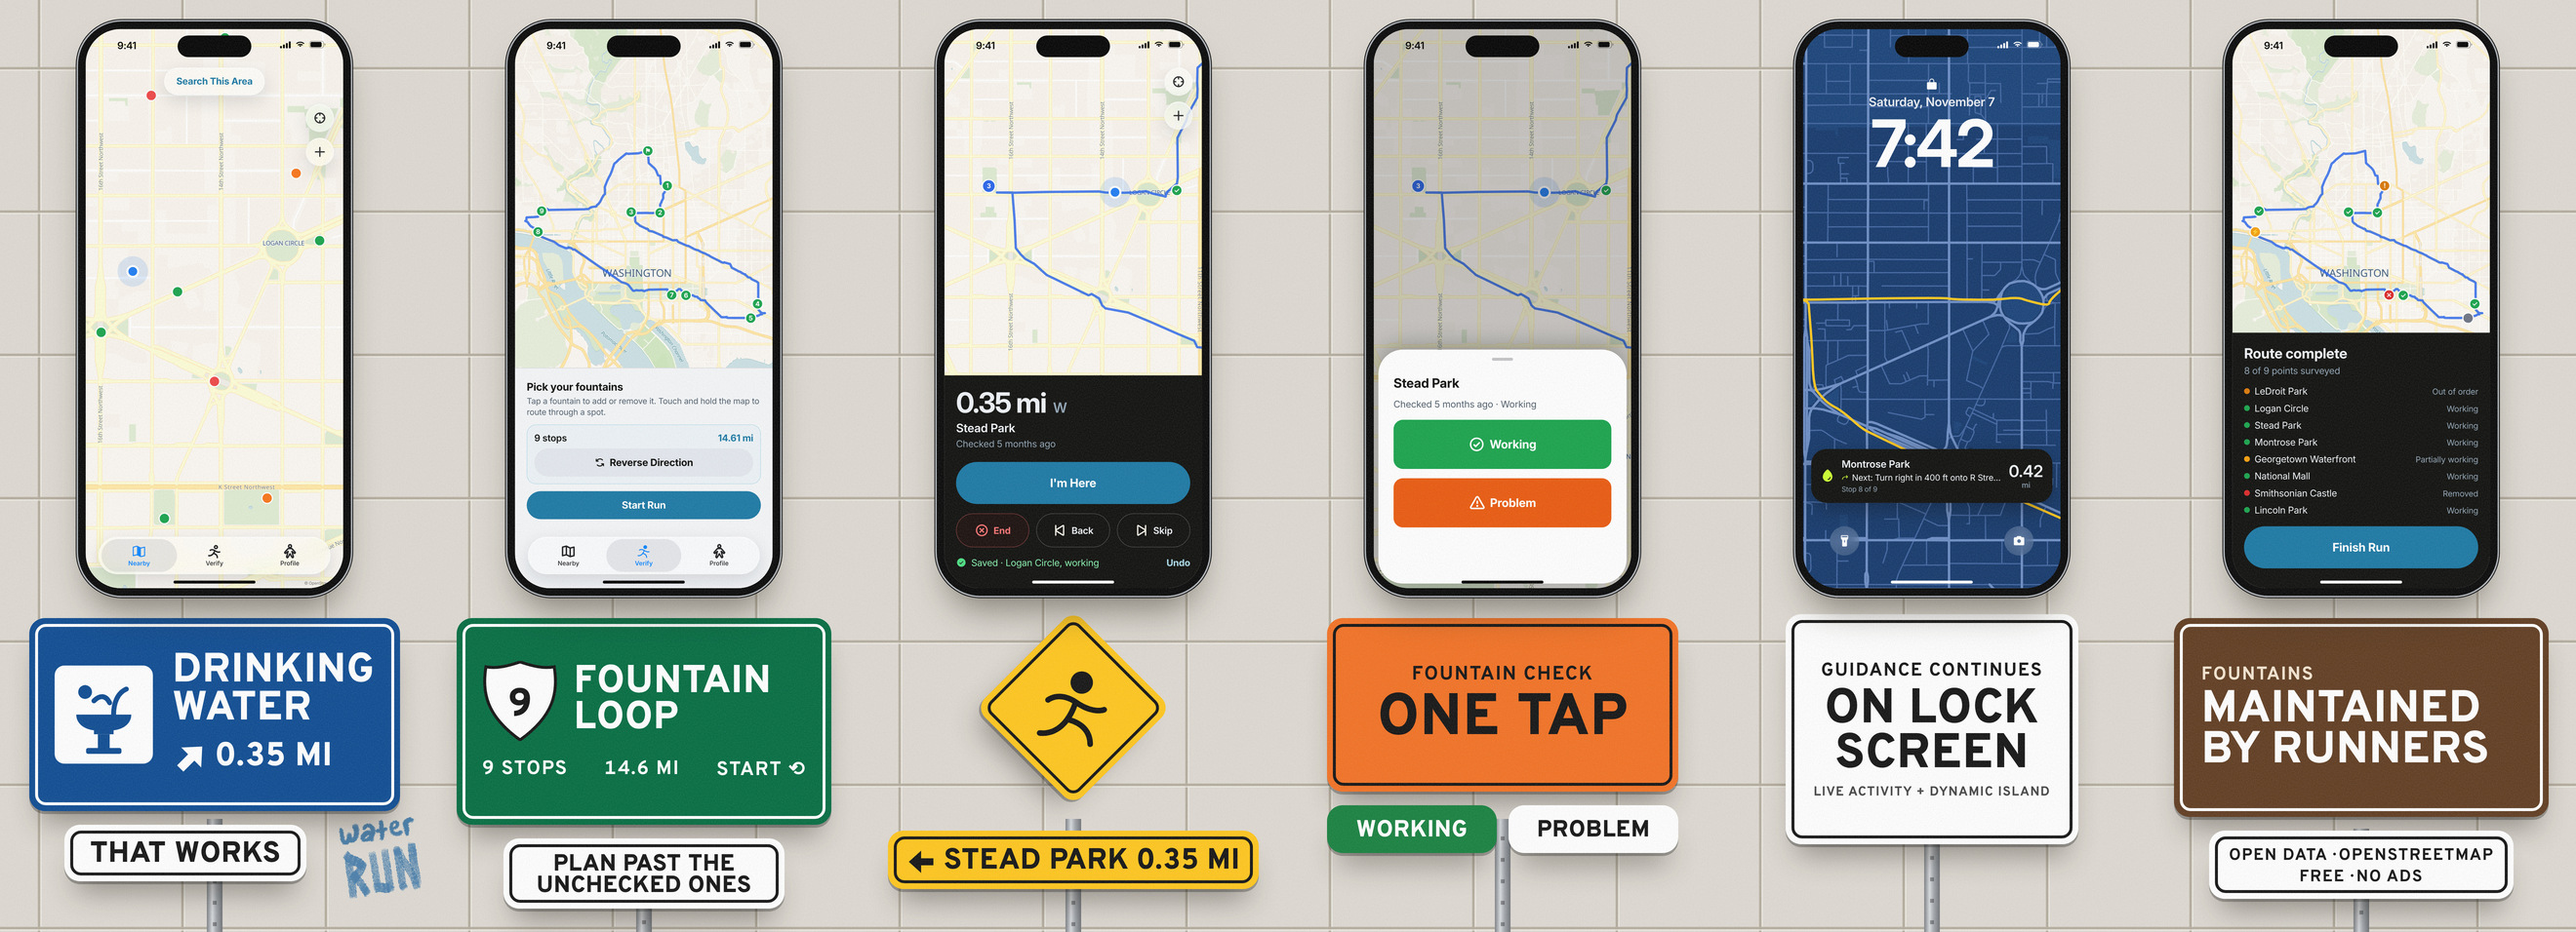
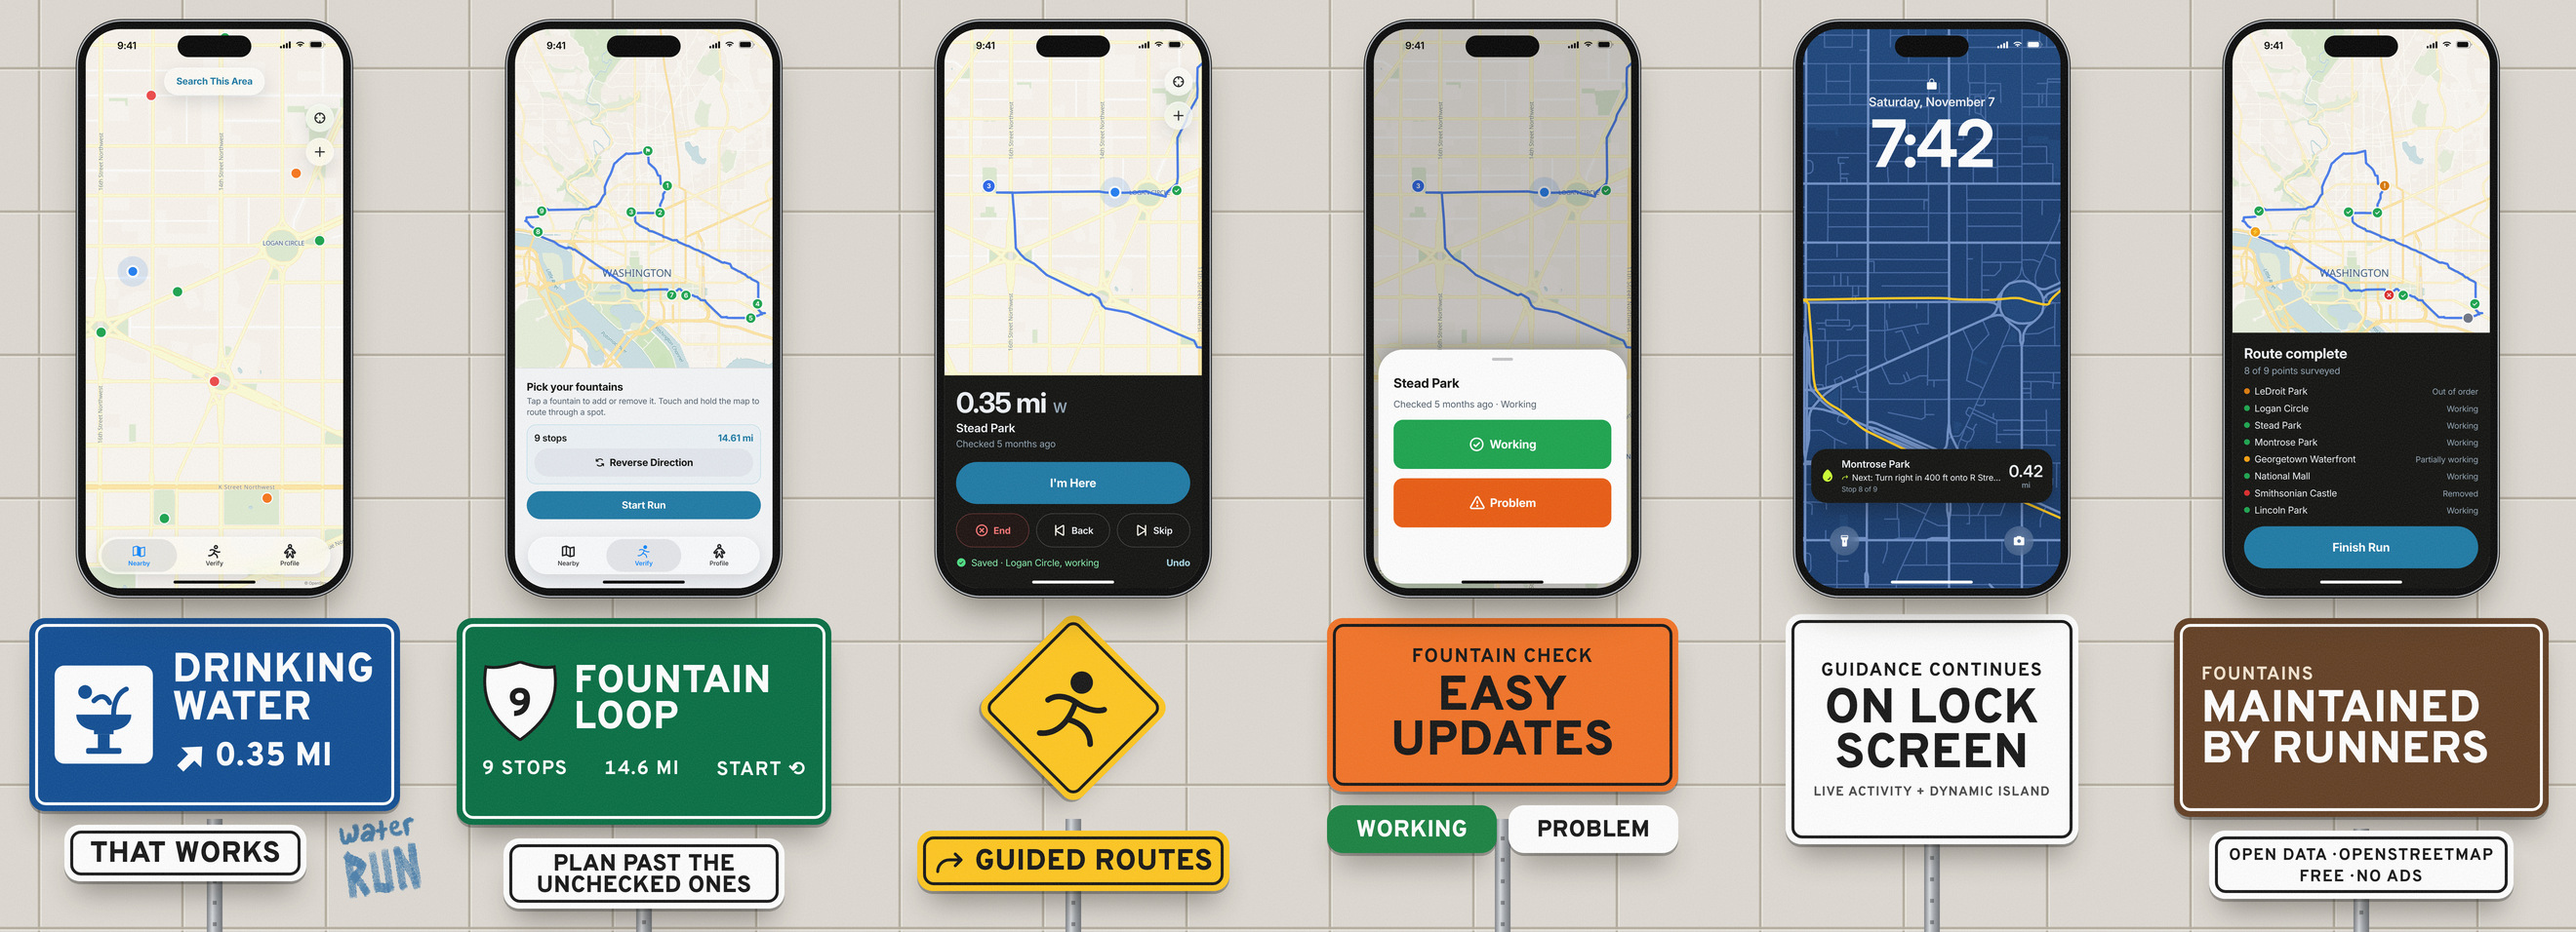
feat(marketing): reword Public Works' run and survey signs
The run frame's plaque says "Guided routes" with a turn arrow instead of
a single stop's distance, and the work-zone sign says "Easy updates".

Claude-Session: https://claude.ai/code/session_01A6NDPjtjuAxZPuc27tkg3H

Changed region(s): [[0.528, 0.6977, 0.6523, 0.819], [0.3417, 0.8797, 0.497, 0.9707]]

diff --git a/marketing/app-store/src/public-works.html b/marketing/app-store/src/public-works.html
@@ -195,14 +195,14 @@
      </div>
      <div style="position:absolute;inset:0;display:flex;align-items:center;justify-content:center">${S.icon("person-simple-run", 92, "#111", "fill")}</div>
    </div>
-   ${plaque(`<div class="legend tnum" style="font-size:30px;display:flex;align-items:center;justify-content:center;gap:8px">${arrow(-90, 30, "#111")} Stead Park 0.35 mi</div>`, "left:30px;top:262px;width:380px;padding:17px 0 13px;background:var(--warn)")}
+   ${plaque(`<div class="legend tnum" style="font-size:30px;display:flex;align-items:center;justify-content:center;gap:10px">${S.icon("arrow-bend-up-right", 32, "#111")} Guided routes</div>`, "left:60px;top:262px;width:320px;padding:17px 0 13px;background:var(--warn)")}
    ${phone(S.runScreen(d), 362)}`,
 
         // 4 — the work zone
         `${post(220, 250)}
    <div class="sign" style="left:40px;top:44px;width:360px;height:178px;background:var(--work);color:#111;padding:26px;text-align:center;display:flex;flex-direction:column;justify-content:center">
      <div class="small" style="font-size:20px">Fountain check</div>
-     <div class="legend" style="font-size:60px;margin-top:6px">One tap</div>
+     <div class="legend" style="font-size:50px;margin-top:6px">Easy<br>updates</div>
    </div>
    <div style="position:absolute;left:40px;top:236px;width:360px;display:flex;gap:12px;z-index:5">
      <div class="sign flat" style="position:relative;flex:1;background:#15803d;padding:15px 0 11px;text-align:center"><span class="legend" style="font-size:24px">Working</span></div>
